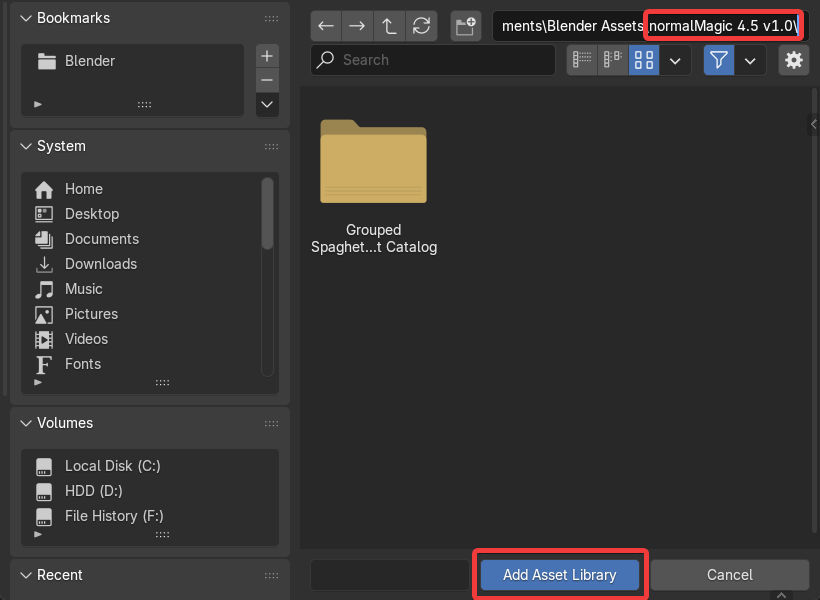
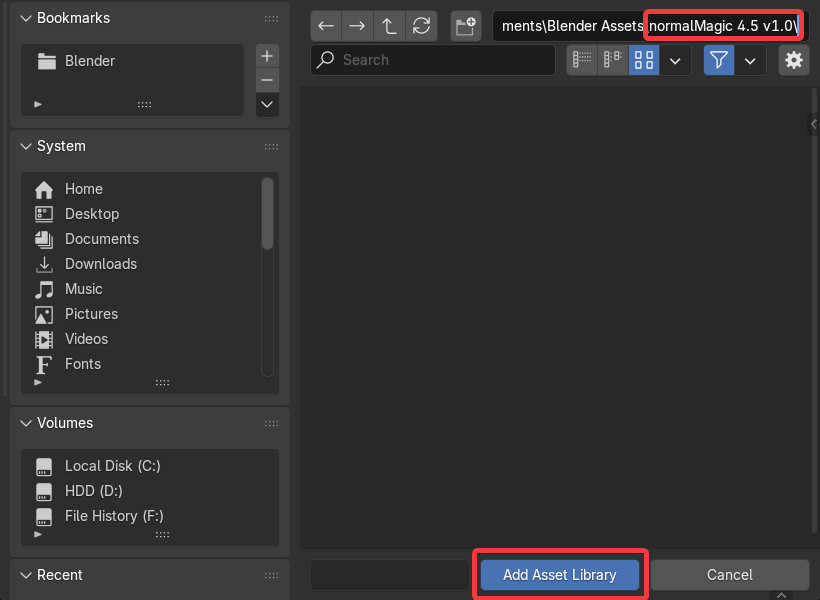
Removing folder from install step, updating wording on main page

Changed region(s): [[0.3659, 0.18, 0.5488, 0.42]]

diff --git a/docs/index.md b/docs/index.md
@@ -16,13 +16,13 @@ normalMagic is a collection of tools for [Blender](https://www.blender.org/) tha
 
 ![all_tools](./assets/all_tools.png)
 
-Controlling normals can be essential for creating high quality 3D artwork. Everything from hard surfaces, organic shapes, foliage, hair and fur, either realistic or stylized can benefit from modifying normals. Sometimes it's the only way to get surfaces shading the way you want.
+Controlling normals can be essential for creating high quality 3D artwork. Hard surfaces, organic shapes, foliage, hair and fur can benefit from modifying normals. Sometimes it's the only way to get surfaces shading the way you want.
 
 !!! info "Custom Normals"
     Most of these tools create or edit ***custom normals***.
 
     Once custom normals exist on a mesh, some default Blender tools/modifiers might not behave as expected. 
-    Tools are included to fix situations such as [mirroring](normal_tools/repair_mirrored_normals.md) or [beveling](normal_tools/repair_bevel_normals.md) but it's something to be aware of.
+    Tools are included to fix situations such as [mirroring](normal_tools/repair_mirrored_normals.md) or [beveling](normal_tools/repair_bevel_normals.md) but it is something to be aware of.
 
 [:simple-gumroad:  Buy normalMagic](https://spaghetmenot.gumroad.com/l/normalmagic){ .md-button .md-button--primary }
 
@@ -42,8 +42,8 @@ Convenient auto-masking options means no need for creating and managing vertex g
 
 ### :material-check-circle: **Smooth and Transfer Normals**
 
-- Smooth and flatten normals normals to improve shading, achieve good toon lighting or for cheap subsurface scattering effects with [Smooth Normals](normal_tools/smooth_normals.md)
-- Transfer and blend normals between unconnected meshes using [Normal Transfer](./normal_tools/normal_transfer.md)
+- Smooth and flatten normals normals to improve shading, achieve good toon lighting or for cheap subsurface scattering effects with [Smooth Normals](normal_tools/smooth_normals.md).
+- Transfer and blend normals between unconnected meshes using [Normal Transfer](./normal_tools/normal_transfer.md).
 
 
 

diff --git a/docs/install.md b/docs/install.md
@@ -17,7 +17,7 @@ normalMagic is installed as an **asset library** in Blender. There is an optiona
 2. Unzip/extract to a folder in your desired location.
 3. Open Blender and go to **Edit/Preferences/File Paths/Asset Libraries.**
 4. Click ++"\+"++ Add Asset Library. ![install_1](assets/install/install_1.png)
-5. Navigate to the unzipped folder and press **Add Asset Library** (make sure you are in the root "normalMagic" folder, not the catalogs one). ![install_2](assets/install/install_2.png)
+5. Navigate to the unzipped folder and press **Add Asset Library**. ![install_2](assets/install/install_2.png)
 6. You should now see "normalMagic" in your asset libraries.  
 **Optional**: Here you can choose how the data is imported in by default. See the [Official Documentation](https://docs.blender.org/manual/en/latest/editors/asset_browser.html#import-settings) for more information. ![install_3](./assets/install/install_3.png)
 
@@ -39,4 +39,3 @@ To install the add-on simply:
 You should now see a "Normal Magic" tab in the sidebar of the 3D viewport:
 
 ![addon panel](./assets/add-on/addon_panel.png)
-
